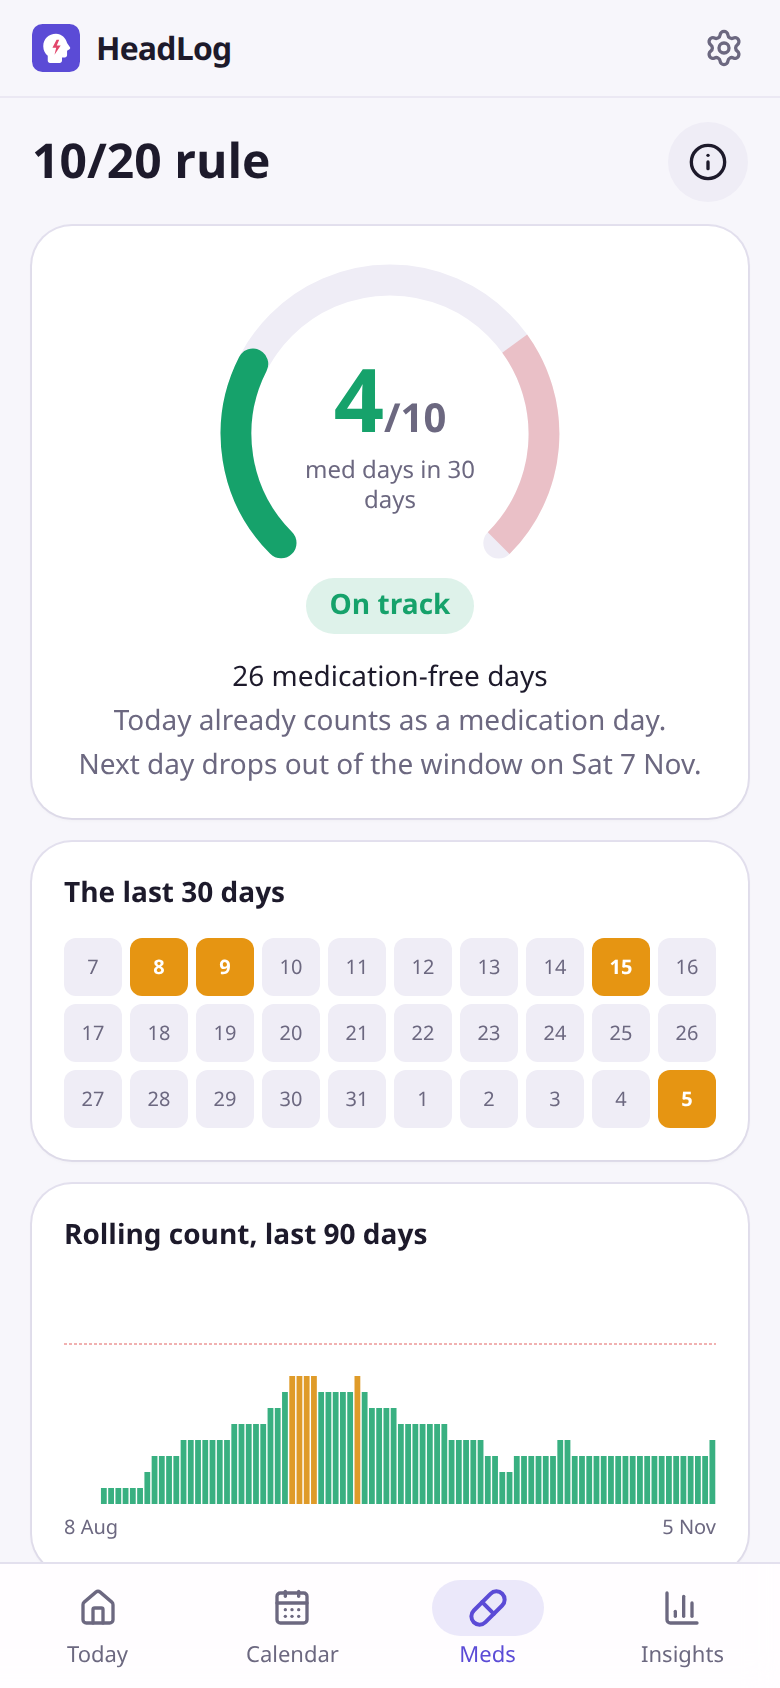
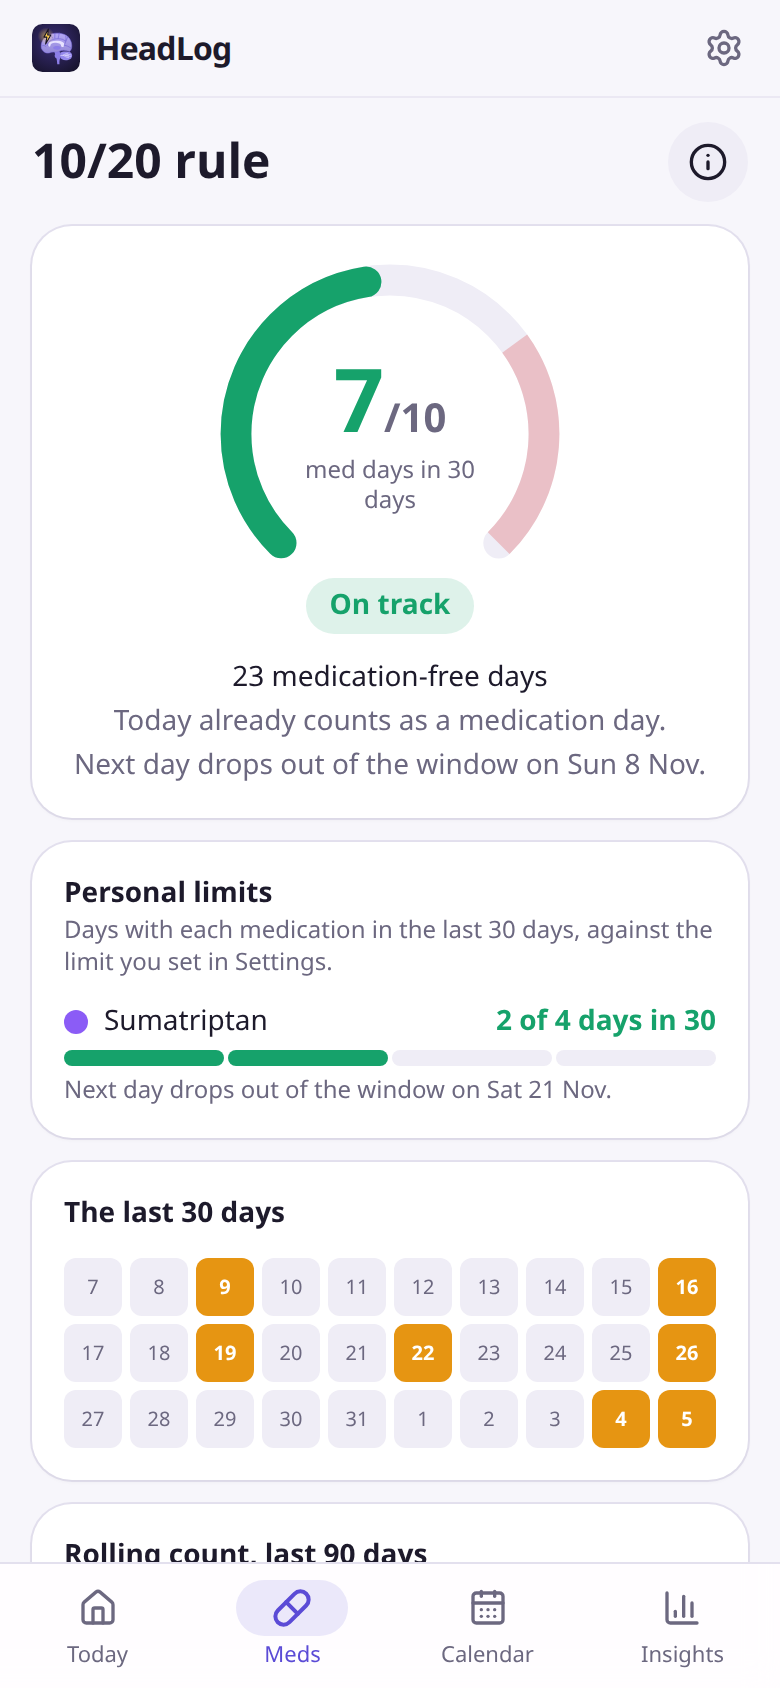
Demo data that shows every part of the app; steadier risk estimate (#12)

diff --git a/src/lib/demo.ts b/src/lib/demo.ts
@@ -1,7 +1,7 @@
 import { addDays, addMinutes, startOfDay } from 'date-fns';
-import { db, fromPreset, seed, type Drink, type Episode, type HeadLogDb, type Intake, type Night, type WeatherDay } from './db';
-import { dayKey } from './days';
 import { wipe } from './backup';
+import { db, fromPreset, seed, type Drink, type DrinkPreset, type Episode, type HeadLogDb, type Intake, type Night, type WeatherDay } from './db';
+import { dayKey } from './days';
 
 /** Seeded pseudo-random numbers, so the demo looks the same each time. */
 function random(seedValue: number) {
@@ -12,12 +12,31 @@ function random(seedValue: number) {
   };
 }
 
-/** Replaces all data with 90 plausible days, including sleep and weather, for trying the app out. */
+const DAYS = 90;
+
+const WINE = { en: 'Wine', de: 'Wein' };
+const NOTES = {
+  en: ['Long meeting without a break', 'Started behind the eyes', 'Better after a walk'],
+  de: ['Lange Besprechung ohne Pause', 'Fing hinter den Augen an', 'Nach einem Spaziergang besser']
+};
+
+/**
+ * Replaces all data with 90 plausible days that show every part of the app: headaches linked to
+ * pressure drops, short nights, little to drink and wine, medication with ratings and a personal
+ * limit, caffeine, sleep with wake breaks, a hydration streak, an open "did it help?" question,
+ * and a pressure drop forecast for tomorrow with a short night today, so the risk warnings show.
+ */
 export async function loadDemo(today = Date.now(), database: HeadLogDb = db, lang: 'en' | 'de' = 'en') {
   await wipe(database);
   await seed(database, lang);
   const meds = await database.medications.orderBy('order').toArray();
+  const triptan = meds.find((m) => m.category === 'triptan')!;
+  await database.medications.update(triptan.id, { limitDays: 4, limitWindow: 30 });
+  const wineId = await database.drinkPresets.add({ name: WINE[lang], emoji: '🍷', ml: 150, order: 4, alcohol: true });
   const presets = await database.drinkPresets.orderBy('order').toArray();
+  const [glass, bottle, coffee, tea] = presets;
+  const wine = presets.find((p) => p.id === wineId)!;
+
   const rnd = random(42);
   const episodes: Omit<Episode, 'id'>[] = [];
   const intakes: Omit<Intake, 'id'>[] = [];
@@ -27,15 +46,22 @@ export async function loadDemo(today = Date.now(), database: HeadLogDb = db, lan
   const tagPool = ['stress', 'sleep', 'screen', 'light', 'nausea', 'weather', 'meal'];
   let pressure = 1016;
   let lowWaterYesterday = false;
+  let wineYesterday = false;
 
-  for (let i = 89; i >= 0; i--) {
+  const drink = (preset: DrinkPreset, time: number) => {
+    if (time <= today) drinks.push({ time, ...fromPreset(preset) });
+  };
+
+  for (let i = DAYS - 1; i >= -1; i--) {
     const day = startOfDay(addDays(today, -i));
     const key = dayKey(day);
+    const isToday = i === 0;
+    const isTomorrow = i === -1;
 
-    // A front passes now and then: pressure falls for a day, then recovers.
-    const front = rnd() < 0.12;
+    // A front passes now and then: pressure falls for a day, then recovers. Tomorrow always brings one.
+    const front = isTomorrow || (!isToday && rnd() < 0.12);
     const before = pressure;
-    pressure = front ? pressure - 6 - rnd() * 6 : pressure + (1016 - pressure) * 0.3 + (rnd() - 0.5) * 4;
+    pressure = front ? pressure - 7 - rnd() * 5 : pressure + (1016 - pressure) * 0.3 + (rnd() - 0.5) * 4;
     weather.push({
       day: key,
       pressure: Math.round(pressure * 10) / 10,
@@ -46,47 +72,54 @@ export async function loadDemo(today = Date.now(), database: HeadLogDb = db, lan
       precipitation: front ? Math.round(rnd() * 80) / 10 : 0,
       code: front ? 61 : rnd() < 0.5 ? 2 : 0
     });
+    if (isTomorrow) break;
 
-    // The night ending this morning: short now and then, sometimes with a wake break.
-    const shortNight = rnd() < 0.25;
+    // The night ending this morning: short now and then, last night always. Sometimes a child wakes you.
+    const shortNight = isToday || rnd() < 0.25;
     const asleep = addMinutes(day, -90 + Math.floor(rnd() * 120)).getTime();
-    const hours = shortNight ? 4.5 + rnd() * 1.2 : 6.8 + rnd() * 1.6;
-    const wake = asleep + hours * 3600000;
+    const hours = shortNight ? 4.6 + rnd() * 1.1 : 6.8 + rnd() * 1.6;
+    const wake = Math.min(asleep + hours * 3600000, today);
     const breaks = rnd() < 0.2 ? [{ start: asleep + 3 * 3600000, end: asleep + 3 * 3600000 + (10 + Math.floor(rnd() * 30)) * 60000 }] : [];
-    if (wake <= today) {
-      const awake = breaks.reduce((sum, b) => sum + b.end - b.start, 0);
-      nights.push({ day: key, start: asleep, end: wake, asleepMs: wake - asleep - awake, breaks, source: 'screen' });
-    }
+    const awake = breaks.reduce((sum, b) => sum + b.end - b.start, 0);
+    if (wake > asleep + awake) nights.push({ day: key, start: asleep, end: wake, asleepMs: wake - asleep - awake, breaks, source: 'manual' });
 
-    const lowWater = rnd() < 0.3;
-    const glasses = lowWater ? 2 + Math.floor(rnd() * 3) : 5 + Math.floor(rnd() * 4);
-    for (let g = 0; g < glasses; g++) {
-      const p = presets[Math.floor(rnd() * presets.length)];
-      const time = addMinutes(day, 7 * 60 + Math.floor(rnd() * 14 * 60)).getTime();
-      if (time <= today) drinks.push({ time, ...fromPreset(p) });
-    }
+    // Drinks: the four days before today reach the goal for a streak; today is still under way.
+    const streakDay = i >= 1 && i <= 4;
+    const lowWater = !streakDay && rnd() < 0.3;
+    const at = (minutes: number) => addMinutes(day, minutes).getTime();
+    drink(coffee, at(7 * 60 + 30));
+    if (rnd() < 0.6) drink(coffee, at(13 * 60 + Math.floor(rnd() * 60)));
+    if (rnd() < 0.4) drink(tea, at(16 * 60));
+    const glasses = streakDay ? 6 : lowWater ? 1 + Math.floor(rnd() * 2) : 4 + Math.floor(rnd() * 3);
+    for (let g = 0; g < glasses; g++) drink(rnd() < 0.3 ? bottle : glass, at(9 * 60 + Math.floor(rnd() * 12 * 60)));
+    if (streakDay) drink(bottle, at(12 * 60));
+    const hasWine = !isToday && rnd() < 0.12;
+    if (hasWine) drink(wine, at(20 * 60));
 
-    const risk = 0.06 + (lowWaterYesterday ? 0.22 : 0) + (shortNight ? 0.2 : 0) + (front ? 0.3 : 0);
+    const risk = 0.04 + (lowWaterYesterday ? 0.2 : 0) + (shortNight ? 0.35 : 0) + (front ? 0.3 : 0) + (wineYesterday ? 0.3 : 0);
     lowWaterYesterday = lowWater;
-    if (i === 0 || rnd() > risk) continue;
-    const start = addMinutes(day, 8 * 60 + Math.floor(rnd() * 12 * 60)).getTime();
-    if (start > today) continue;
+    wineYesterday = hasWine;
+    if (isToday || rnd() > risk) continue;
+
+    const start = at(8 * 60 + Math.floor(rnd() * 12 * 60));
     const intensity = 2 + Math.floor(rnd() * 8);
     const end = start + (60 + Math.floor(rnd() * 8 * 60)) * 60000;
     const tags = tagPool.filter(() => rnd() < 0.2);
-    episodes.push({ start, end, intensity, tags, note: '' });
+    const note = rnd() < 0.15 ? NOTES[lang][Math.floor(rnd() * NOTES[lang].length)] : '';
+    episodes.push({ start, end, intensity, tags, note });
     if (intensity >= 4 && rnd() < 0.8) {
-      const med = intensity >= 7 ? meds[2] : meds[Math.floor(rnd() * 2)];
-      intakes.push({
-        time: start + Math.floor(rnd() * 90) * 60000,
-        medId: med.id,
-        name: med.name,
-        dose: med.dose,
-        category: med.category,
-        relief: Math.floor(rnd() * 3)
-      });
+      const med = intensity >= 7 ? triptan : meds[Math.floor(rnd() * 2)];
+      intakes.push({ time: start + Math.floor(rnd() * 90) * 60000, medId: med.id, name: med.name, dose: med.dose, category: med.category, relief: Math.floor(rnd() * 3) });
     }
   }
+
+  // An intake two hours ago, not rated yet, so Today asks whether it helped.
+  const recent = today - 2 * 3600000;
+  if (dayKey(recent) === dayKey(today)) {
+    const med = meds[0];
+    intakes.push({ time: recent, medId: med.id, name: med.name, dose: med.dose, category: med.category, relief: null });
+  }
+
   await database.episodes.bulkAdd(episodes);
   await database.intakes.bulkAdd(intakes);
   await database.drinks.bulkAdd(drinks);

diff --git a/src/lib/risk.ts b/src/lib/risk.ts
@@ -28,6 +28,9 @@ export const MIN_WITH = 5;
 export const MIN_WITHOUT = 10;
 /** From this hour on, little to drink so far today counts toward tomorrow's risk. */
 const HYDRATION_FROM_HOUR = 16;
+/** Each active factor beyond the strongest raises the estimate by this share. */
+const EXTRA_FACTOR = 0.15;
+const MAX_ESTIMATE = 0.9;
 /** How far back the history goes. */
 const HISTORY_DAYS = 365;
 
@@ -55,7 +58,7 @@ export interface Risk {
   usual: number;
   /** Estimated chance for the day, or null when no factor has enough data. */
   estimate: number | null;
-  /** Estimate relative to usual. */
+  /** Estimate relative to usual; 1 without an estimate. */
   ratio: number;
   level: 'none' | 'possible' | 'raised' | 'high';
   factors: ActiveFactor[];
@@ -126,7 +129,8 @@ export function factorStats(data: RiskData, t: Thresholds, now: number): FactorS
 }
 
 /**
- * Risk of a headache starting today or tomorrow from the factors known now. Tomorrow uses the
+ * Risk of a headache starting today or tomorrow from the factors known now. The estimate is the
+ * headache rate on days with the strongest active factor, raised a little for each further one. Tomorrow uses the
  * pressure forecast, today's alcohol and, from 16:00, today's hydration so far; today uses last
  * night, yesterday's drinks, today's pressure and, from noon, today's caffeine.
  */
@@ -151,8 +155,10 @@ export function assessRisk(data: RiskData, t: Thresholds, now: number, day: 'tod
   }
 
   const known = factors.filter((f) => f.stats.ratio !== null);
-  const ratio = Math.min(5, known.reduce((product, f) => product * f.stats.ratio!, 1));
-  const estimate = known.length && usual > 0 ? Math.min(0.95, usual * ratio) : null;
+  // The strongest factor sets the estimate; each further one adds a little, as they overlap.
+  const strongest = Math.max(0, ...known.map((f) => f.stats.withRate));
+  const estimate = known.length ? Math.min(MAX_ESTIMATE, strongest * (1 + EXTRA_FACTOR * (known.length - 1))) : null;
+  const ratio = estimate !== null && usual > 0 ? estimate / usual : 1;
   const level = !factors.length ? 'none' : ratio >= 2.5 ? 'high' : ratio >= 1.5 ? 'raised' : 'possible';
   return { day, usual, estimate, ratio, level, factors };
 }

diff --git a/src/lib/backup.test.ts b/src/lib/backup.test.ts
@@ -2,6 +2,8 @@ import { beforeEach, describe, expect, it } from 'vitest';
 import { createBackup, createCsv, isBackup, restoreBackup, wipe } from './backup';
 import { HeadLogDb, seed } from './db';
 import { loadDemo } from './demo';
+import { assessRisk } from './risk';
+import { hydrationStreak } from './analysis';
 
 let db: HeadLogDb;
 
@@ -74,5 +76,26 @@ describe('older backups', () => {
     delete backup.tables.sleep;
     await restoreBackup(backup, db);
     expect(await db.sleep.count()).toBe(0);
+  });
+});
+
+describe('demo data', () => {
+  it('shows a risk warning for today and tomorrow', async () => {
+    const now = new Date('2026-03-31T18:00').getTime();
+    await loadDemo(now, db);
+    const data = {
+      episodes: await db.episodes.toArray(),
+      drinks: await db.drinks.toArray(),
+      sleep: new Map((await db.sleep.toArray()).map((n) => [n.day, n])),
+      weather: new Map((await db.weather.toArray()).map((w) => [w.day, w]))
+    };
+    const levels = (['today', 'tomorrow'] as const).map((day) => assessRisk(data, { dropHpa: 6, goalMl: 2000 }, now, day).level);
+    expect(levels.every((l) => l === 'raised' || l === 'high')).toBe(true);
+  });
+
+  it('has a hydration streak of four days', async () => {
+    const now = new Date('2026-03-31T18:00').getTime();
+    await loadDemo(now, db);
+    expect(hydrationStreak(await db.drinks.toArray(), 2000, now).current).toBeGreaterThanOrEqual(4);
   });
 });

diff --git a/src/lib/components/SettingsSheet.svelte b/src/lib/components/SettingsSheet.svelte
@@ -74,8 +74,10 @@
   async function demo() {
     if (!confirm(t('set.demoConfirm'))) return;
     pauseSync();
+    const place = $state.snapshot(data.settings.weather.place);
     await loadDemo(Date.now(), undefined, i18n.lang);
     await load();
+    await saveSettings({ weather: { enabled: true, place }, sleep: { enabled: true } });
   }
 
   async function reset() {

diff --git a/README.md b/README.md
@@ -6,8 +6,8 @@
 
 <p align="center">
   <img src="docs/screenshots/today.png" alt="Today" width="200">
-  <img src="docs/screenshots/calendar.png" alt="Calendar" width="200">
   <img src="docs/screenshots/meds.png" alt="10/20 rule" width="200">
+  <img src="docs/screenshots/calendar.png" alt="Calendar" width="200">
   <img src="docs/screenshots/insights-dark.png" alt="Insights, dark theme" width="200">
 </p>
 
@@ -20,7 +20,9 @@
 - **Hydration.** Your own drink buttons (glass 250 ml, bottle 700 ml, coffee, tea, ...) and a daily goal with a progress bar, right at the top of Today.
 - **Calendar.** Headache days shaded by intensity, dots for medication days and days you hit your water goal. Tap a day to see, edit or add entries after the fact.
 - **10/20 rule.** Take acute headache medication on at most 10 out of any 30 days, so at least 20 stay free. HeadLog shows your current count, what taking something today would mean, when the next medication day drops out of the window, a 90-day rolling trend, and the monthly overuse thresholds per medication type (ICHD-3). Preventive medication doesn't count. The limit is configurable.
-- **Insights** over 30, 90 or 365 days: headache and medication days per month, average duration and intensity, which weekdays and times of day headaches start, how much you drank the day before a headache compared to the day before a clear day, how well each medication helped, and your most common triggers.
+- **Headache risk warning** for today and tomorrow, learned from your own data: pressure drops (forecast), little to drink, short nights, alcohol and less caffeine than usual. Shows the estimated chance against your usual one, the reasons and a tip, and can warn in the evening.
+- **Weather and sleep:** daily weather at your home town (Open-Meteo, only the town's coordinates are sent) and a sleep estimate from screen activity, with wake breaks.
+- **Insights** over 30, 90 or 365 days: a timeline of headaches, hydration, sleep and air pressure with headache days marked, a comparison of headache days with other days, headache and medication days per month, average duration and intensity, which weekdays and times of day headaches start, how much you drank the day before a headache compared to the day before a clear day, how well each medication helped, and your most common triggers.
 - **Doctor report (PDF)** on one page for 1 to 12 months, from Insights or Settings: key figures, a headache calendar, charts of headache and medication days per month and of the 10/20 rule over time, medication with how often it helped and your limits, and the most common triggers. CSV with every entry for the same period.
 - **Personal limits per medication**, e.g. at most 5 triptan days in any 30 days, shown on the button, in the Meds tab and in the report.
 - **Reminders:** a notification one hour after taking medication asking whether it helped (answer right in the notification), reminders at noon and in the evening if you are behind your hydration goal, and check-ins at times you choose that list what you logged since the last one and let you log a drink straight from the notification.
@@ -54,7 +56,7 @@ Updates work the same way: install the newer APK over the old one. Your data sta
 ### First steps
 
 1. Open **Settings** (gear icon, top right). Edit **My medication** to match what you take, and **My drinks** to match your glasses and bottles. Set your daily water goal.
-2. Try **Load demo data** to see what the calendar and insights look like after a few weeks. **Delete all data** clears it again.
+2. Try **Load demo data** (Settings → Advanced) to see every screen with 90 days of data, including a risk warning. **Delete all data** clears it again.
 3. The data lives only on your phone, so uninstalling the app deletes it. Either export a JSON backup now and then (Settings → Data), or turn on the Gist backup:
    1. On GitHub, open <https://github.com/settings/personal-access-tokens/new>, give the token a name and a long expiration, and under **Account permissions** set **Gists** to **Read and write**. Generate it and copy it.
    2. In HeadLog, Settings → Cloud backup, paste the token and tap **Connect**.

diff --git a/CLAUDE.md b/CLAUDE.md
@@ -23,7 +23,7 @@ Run `bun run check` and `bun run test` before every commit.
 - `src/lib/db.ts`: Dexie schema, entity types, default medication and drink lists, `seed`.
 - `src/lib/store.svelte.ts`: all data in one `$state` object. Every write goes to Dexie and then calls `load()`, which reloads everything. `Settings` lives here with its defaults.
 - `src/lib/analysis.ts`: pure functions for headache days, medication days, the 10/20 rule, personal limits, rolling counts, monthly counts, period stats. Well tested; put new statistics here, not in components.
-- `src/lib/risk.ts`: personal headache risk for today and tomorrow. For each factor (pressure drop, little to drink the day before, short night, alcohol, caffeine drop) it compares headache starts on days with and without it over the last year; factors with enough days get a ratio, the active ones are multiplied (capped at 5×). Shown on Today and as an evening notification.
+- `src/lib/risk.ts`: personal headache risk for today and tomorrow. For each factor (pressure drop, little to drink the day before, short night, alcohol, caffeine drop) it compares headache starts on days with and without it over the last year; factors with enough days get a ratio; the estimate is the headache rate on days with the strongest active factor, raised by 15 % per further factor and capped at 90 %. Shown on Today and as an evening notification.
 - `src/lib/report.ts`: one-page doctor PDF (jsPDF + jspdf-autotable): header with logo, key figures, calendar, two charts, medication, triggers. It must stay on one A4 page for up to 12 months; `report.test.ts` checks the page count.
 - `src/lib/doctor.svelte.ts`: builds the report from the current data with the app icon as logo, or the CSV for the same period, and shares it. Used by Settings and Insights.
 - `src/lib/reminders.ts`: local notifications. Hydration reminders when behind the goal, drink check-ins at fixed times with drink buttons, "did it help?" after an intake, "still a headache?" every N hours.

diff --git a/CHANGELOG.md b/CHANGELOG.md
@@ -4,7 +4,9 @@
 
 ### Added
 
-- Headache risk for today and tomorrow, learned from your own data: for each factor (pressure drop, little to drink the day before, short night, alcohol, less caffeine than usual) HeadLog compares how often a headache started with and without it. Today shows a warning with the estimated chance, the usual chance, the reasons and a tip. An evening notification (20:00 by default, adjustable or off) warns when tomorrow looks risky.
+- Demo data shows every part of the app: links between headaches and pressure drops, short nights, little to drink and wine, caffeine, sleep with wake breaks, a hydration streak, a personal medication limit, notes, an open "did it help?" question and a pressure drop forecast for tomorrow, so the risk warnings appear.
+
+- Headache risk for today and tomorrow, learned from your own data: for each factor (pressure drop, little to drink the day before, short night, alcohol, less caffeine than usual) HeadLog compares how often a headache started with and without it. Today shows a warning with the estimated chance (the headache rate on days with the strongest active factor, a little higher for each further one), the usual chance, the reasons and a tip. An evening notification (20:00 by default, adjustable or off) warns when tomorrow looks risky.
 
 ### Changed
 
